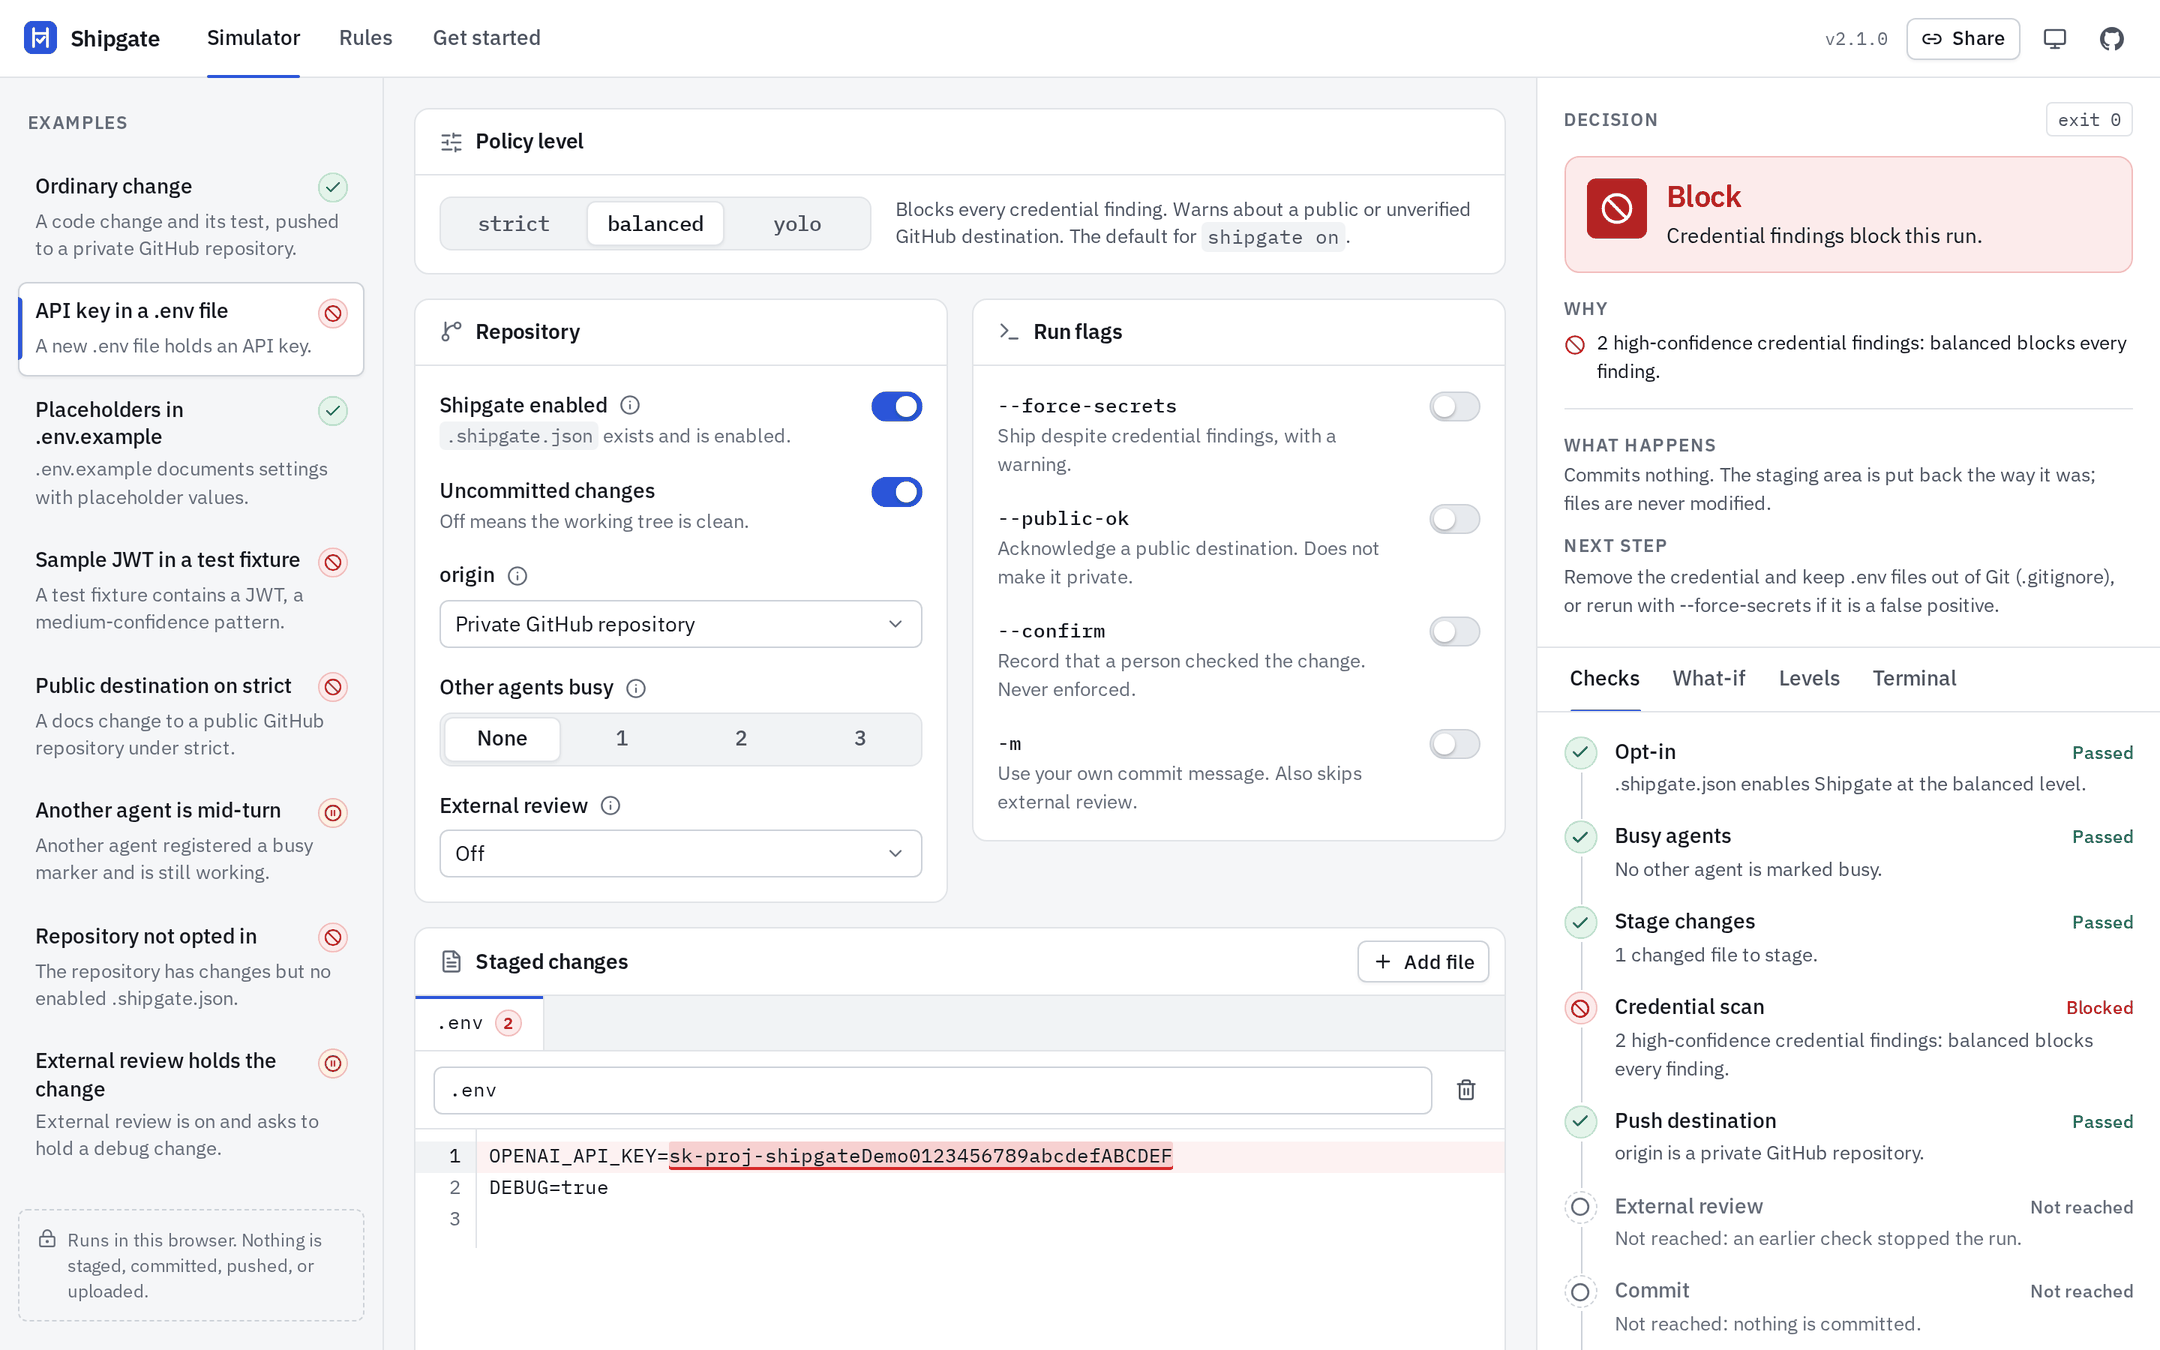
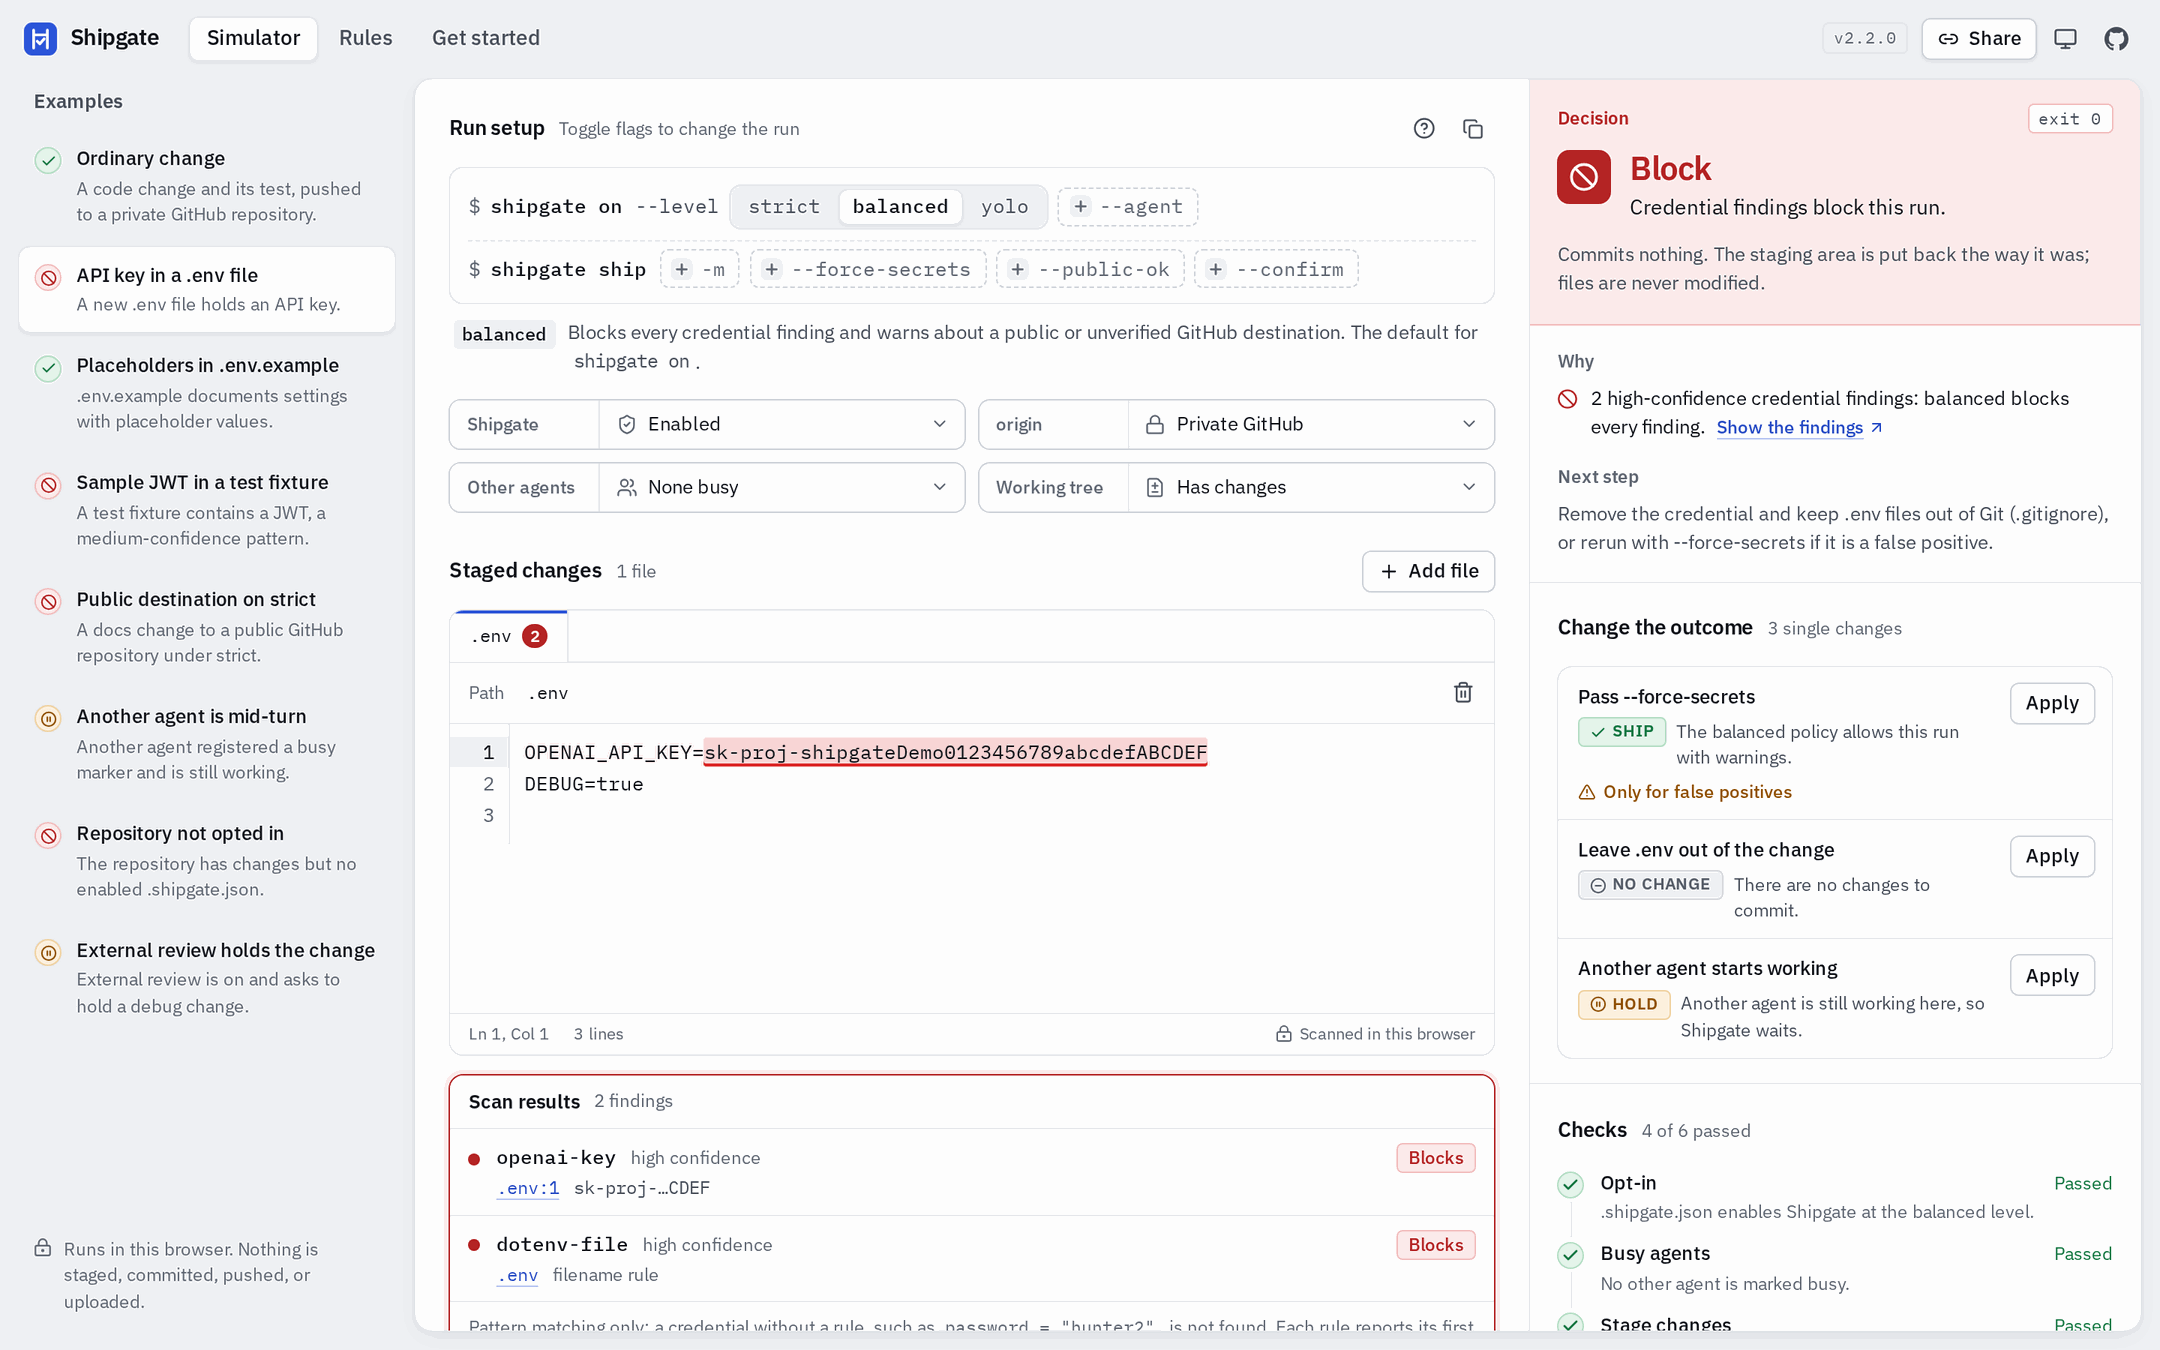
Release 2.2.0
Bump every package to 2.2.0, describe the reworked simulator in the
README with a new screenshot, and add the 2.2.0 changelog entry.

diff --git a/README.md b/README.md
@@ -28,7 +28,7 @@ Shipgate is not published to the npm registry. Install the CLI tarball from a
 and the simulator, so it needs no other downloads:
 
 ```sh
-npm install --global https://github.com/skysssup/shipgate/releases/download/v2.1.0/shipgate-cli-2.1.0.tgz
+npm install --global https://github.com/skysssup/shipgate/releases/download/v2.2.0/shipgate-cli-2.2.0.tgz
 shipgate --version
 ```
 
@@ -39,8 +39,8 @@ git clone https://github.com/skysssup/shipgate
 cd shipgate
 npm ci
 npm run build
-npm run pack:release          # writes release/shipgate-cli-2.1.0.tgz and friends
-npm install --global ./release/shipgate-cli-2.1.0.tgz
+npm run pack:release          # writes release/shipgate-cli-2.2.0.tgz and friends
+npm install --global ./release/shipgate-cli-2.2.0.tgz
 ```
 
 ## Quick start
@@ -306,14 +306,16 @@ requests; opened files stay in the page.
 
 ![The policy simulator blocking a change that adds an API key in a .env file](docs/simulator.png)
 
-- Choose an example, the policy level, the repository facts (opt-in, origin, busy agents, external
-  review), and the `ship` flags.
-- Edit the staged files. The scanner runs on every change, highlights credential-shaped values,
-  and lists what each finding does at the current level, including placeholders it skipped.
-- **Checks** shows each check `ship` applies, in order, with its result. **What-if** lists single
-  changes that change the decision and applies one with a click. **Levels** compares strict,
-  balanced, and yolo. **Terminal** shows the report `shipgate ship` would print, produced by the
-  CLI's own formatter, and the commands that reproduce the setup.
+- **Run setup** shows the `shipgate on` and `shipgate ship` commands for the current inputs. Pick
+  the level and click a flag to switch it, then set the repository facts: opt-in, origin, other
+  agents, working tree, and the reviewer's answer.
+- **Staged changes** is an editor. The scanner runs on every change, highlights credential-shaped
+  values, and lists each finding with what it does at the current level, including placeholders it
+  skipped.
+- The **decision** panel explains the result and links each reason to the input behind it, which
+  is highlighted. It lists single changes that would change the outcome (one click applies a
+  change, and Undo reverts it), every check `ship` applies, and the decision at each level.
+- **CLI output** shows the report `shipgate ship` would print, produced by the CLI's own formatter.
 - **Share** copies a link that keeps the example and settings, not file contents. The **Rules**
   view lists every scanner rule and what each level does with it.
 

diff --git a/CHANGELOG.md b/CHANGELOG.md
@@ -1,5 +1,25 @@
 # Changelog
 
+## 2.2.0 — 2026-10-04
+
+### Changed
+
+- The simulator's inputs are now the commands themselves: `shipgate on --level …` and
+  `shipgate ship`, with flags you click to switch, and a strip of repository facts (opt-in, origin,
+  other agents, working tree, and the reviewer's answer). They replace the settings forms.
+- The decision panel links each reason to the input behind it and highlights that input. It shows
+  the changes that would change the outcome, the checks in order (with unreached steps grouped),
+  and the decision at each level on one scrolling panel instead of tabs.
+- Scan results sit with the editor, and the CLI output sits under it.
+- On desktop the simulator is an app-style frame whose columns scroll on their own; below 1024 px
+  it is one column with the decision and suggested changes first.
+
+### Added
+
+- Undo for changes that replace the inputs: loading another example over edits, resetting,
+  applying a suggested change, or switching level from the comparison.
+- A help popover that explains every flag and repository fact.
+
 ## 2.1.0 — 2026-10-04
 
 ### Added
